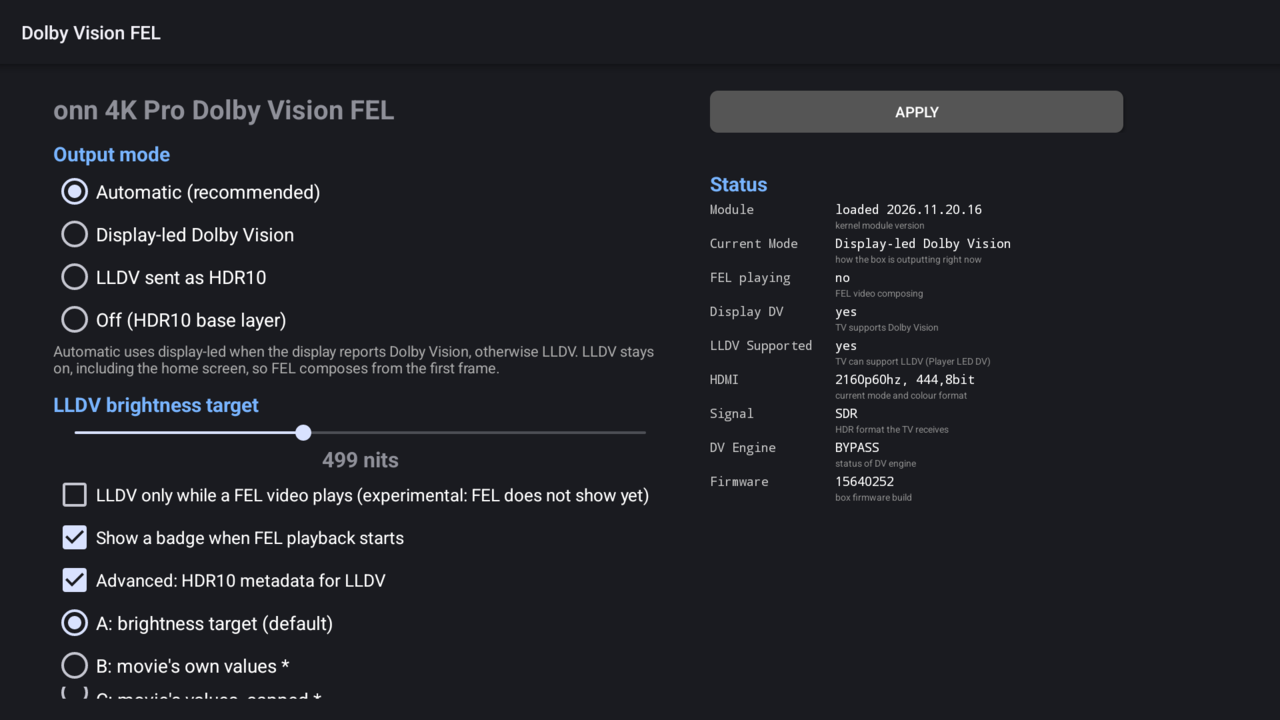
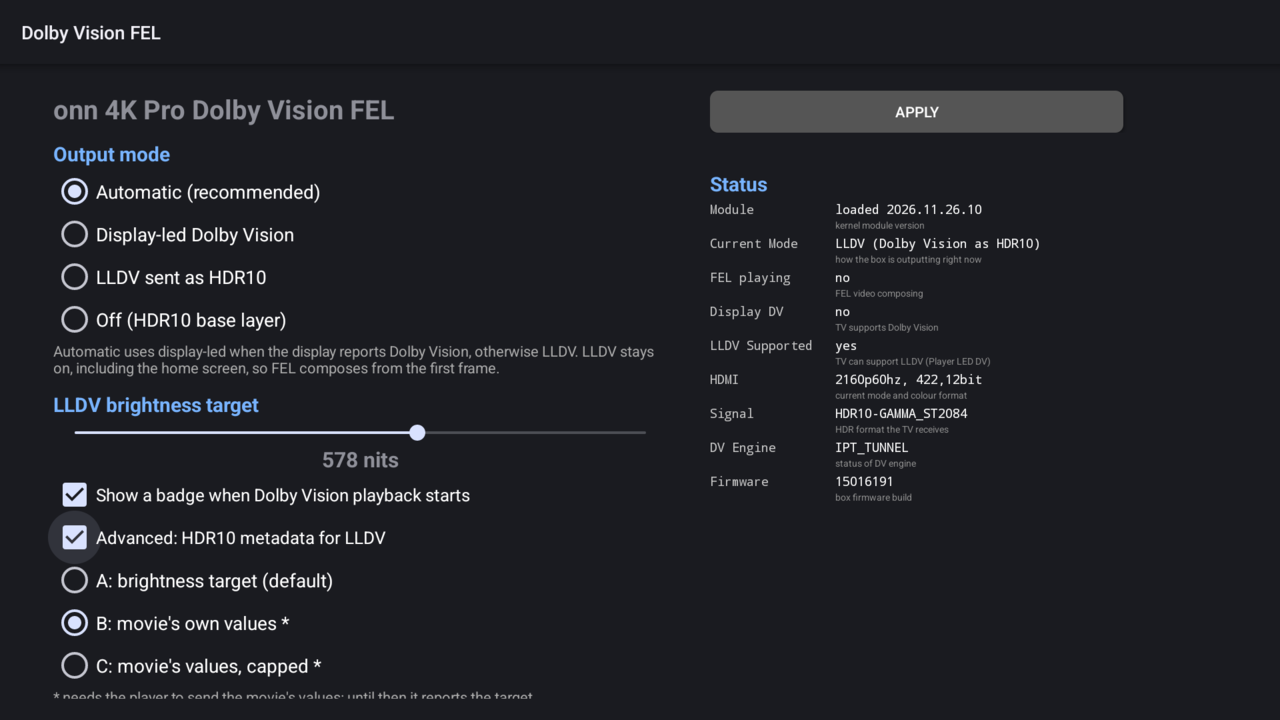
2026.11.26.11: remove the experimental LLDV-per-video option, new app screenshots

diff --git a/player/settings-app/src/org/dvfel/settings/MainActivity.java b/player/settings-app/src/org/dvfel/settings/MainActivity.java
@@ -41,7 +41,7 @@ public class MainActivity extends Activity {
     RadioGroup modeGroup, metaGroup;
     SeekBar nitsBar;
     TextView nitsValue, statusView, messageView;
-    CheckBox badgeBox, advancedBox, alwaysBox;
+    CheckBox badgeBox, advancedBox;
     LinearLayout advanced;
     Button applyButton;
     boolean loaded;
@@ -88,11 +88,6 @@ public class MainActivity extends Activity {
         nitsValue = text("", 16, true);
         nitsValue.setGravity(Gravity.CENTER_HORIZONTAL);
         left.addView(nitsValue);
-
-        alwaysBox = new CheckBox(this);
-        alwaysBox.setText("LLDV only while a FEL video plays (experimental: FEL does not show yet)");
-        alwaysBox.setTextSize(13);
-        left.addView(alwaysBox);
 
         badgeBox = new CheckBox(this);
         badgeBox.setText("Show a badge when Dolby Vision playback starts");
@@ -180,7 +175,7 @@ public class MainActivity extends Activity {
         pendingReq = System.currentTimeMillis();
         String req = "MODE=" + MODES[mode] + "\nNITS=" + NITS[nitsBar.getProgress()] + "\nMETA=" + META[meta]
             + "\nBADGE=" + (badgeBox.isChecked() ? 1 : 0)
-            + "\nWHEN=" + (alwaysBox.isChecked() ? "playback" : "always") + "\nREQ=" + pendingReq + "\n";
+ + "\nWHEN=always\nREQ=" + pendingReq + "\n";
         try {
             File tmp = new File(getFilesDir(), "request.tmp");
             try (FileOutputStream out = new FileOutputStream(tmp)) { out.write(req.getBytes(StandardCharsets.UTF_8)); }
@@ -214,7 +209,6 @@ public class MainActivity extends Activity {
             for (int i = 0; i < NITS.length; i++) if (String.valueOf(NITS[i]).equals(s.get("NITS"))) nitsBar.setProgress(i);
             nitsValue.setText(NITS[nitsBar.getProgress()] + " nits");
             badgeBox.setChecked(!"0".equals(s.get("BADGE")));
-            alwaysBox.setChecked("playback".equals(s.get("WHEN")));
             updateEnabled();
             messageView.setText("");
         }
@@ -295,7 +289,6 @@ public class MainActivity extends Activity {
         boolean lldv = mode == 0 || mode == 2;
         nitsBar.setEnabled(lldv);
         nitsValue.setAlpha(lldv ? 1f : 0.4f);
-        alwaysBox.setEnabled(lldv);
     }
 
     static String yes(String v) { return "1".equals(v) ? "yes" : "no"; }

diff --git a/README.md b/README.md
@@ -9,12 +9,12 @@ Dolby Vision tone-mapped picture too.
 Everything runs in memory. Nothing on the box's partitions is changed: uninstall the module and
 reboot, and the box is stock again.
 
-**Latest release: 2026.11.26.10** (smooth 24 Hz FEL on Dolby Vision TVs and LLDV, badge for every Dolby Vision video):
-[download `onn-dvfel-magisk-2026.11.26.10.zip`](https://github.com/kushmint/ONN4k-Dolby-Vision-FEL/releases/download/v2026.11.26.10/onn-dvfel-magisk-2026.11.26.10.zip)
+**Latest release: 2026.11.26.11** (smooth 24 Hz FEL on Dolby Vision TVs and LLDV, badge for every Dolby Vision video):
+[download `onn-dvfel-magisk-2026.11.26.11.zip`](https://github.com/kushmint/ONN4k-Dolby-Vision-FEL/releases/download/v2026.11.26.11/onn-dvfel-magisk-2026.11.26.11.zip)
 · [all releases](https://github.com/kushmint/ONN4k-Dolby-Vision-FEL/releases) · [install guide](#install)
 · [changelog](#changelog)
 · FEL players: [ONN4k-FEL-Players v2026.11.26](https://github.com/kushmint/ONN4k-FEL-Players/releases/tag/v2026.11.26)
-(use these together: smooth 24 Hz needs module 2026.11.26.10 **and** players v2026.11.26 or later)
+(use these together: smooth 24 Hz needs module 2026.11.26.10 or later **and** players v2026.11.26 or later)
 
 > **Smooth FEL playback.** FEL movies now play at 24 Hz with every frame shown once, with its
 > enhancement layer: no repeated frames, no dropped frames and no green flashes, on Dolby Vision TVs
@@ -64,7 +64,7 @@ Check your firmware build: **Settings → System → About → Android TV OS bui
 
 ### 1. Download the zip
 
-**[onn-dvfel-magisk-2026.11.26.10.zip](https://github.com/kushmint/ONN4k-Dolby-Vision-FEL/releases/download/v2026.11.26.10/onn-dvfel-magisk-2026.11.26.10.zip)**
+**[onn-dvfel-magisk-2026.11.26.11.zip](https://github.com/kushmint/ONN4k-Dolby-Vision-FEL/releases/download/v2026.11.26.11/onn-dvfel-magisk-2026.11.26.11.zip)**
 (newer versions: [Releases](https://github.com/kushmint/ONN4k-Dolby-Vision-FEL/releases)).
 
 It's a standard Magisk module zip (about 85 KB). Don't unzip it; Magisk installs it as is. Inside:
@@ -103,17 +103,17 @@ On the computer ([platform-tools](https://developer.android.com/tools/releases/p
 
 ```sh
 # download the zip (or use the link above in a browser)
-curl -LO https://github.com/kushmint/ONN4k-Dolby-Vision-FEL/releases/download/v2026.11.26.10/onn-dvfel-magisk-2026.11.26.10.zip
+curl -LO https://github.com/kushmint/ONN4k-Dolby-Vision-FEL/releases/download/v2026.11.26.11/onn-dvfel-magisk-2026.11.26.11.zip
 
 adb connect <box-ip>:5555        # on the TV: tick "Always allow from this computer", then Allow
-adb push onn-dvfel-magisk-2026.11.26.10.zip /sdcard/Download/
+adb push onn-dvfel-magisk-2026.11.26.11.zip /sdcard/Download/
 ```
 
 Then either install it from the **Magisk** app (**Modules → Install from storage → Downloads**), or
 straight from the command line:
 
 ```sh
-adb shell "su -c 'magisk --install-module /sdcard/Download/onn-dvfel-magisk-2026.11.26.10.zip'"
+adb shell "su -c 'magisk --install-module /sdcard/Download/onn-dvfel-magisk-2026.11.26.11.zip'"
 adb reboot
 ```
 
@@ -142,7 +142,7 @@ right for almost everyone. Press **Apply** if you change anything; the status pa
 
 ## Tested
 
-**2026.11.26.10** with the players' v2026.11.26 builds, on both boxes. "Lost" is frames the video path never
+**2026.11.26.10** (the same kernel module as 2026.11.26.11) with the players' v2026.11.26 builds, on both boxes. "Lost" is frames the video path never
 showed; "held" is frames that had to wait for their enhancement layer (each one is a frame shown
 twice); "green" is frames shown without their enhancement layer.
 
@@ -217,9 +217,9 @@ and applies it within a second or two. Open it from the apps row: **Dolby Vision
 
 ![Settings app on a Dolby Vision TV: Automatic selected, status shows Display DV yes, HDMI 2160p60hz 444 8bit, DV Engine BYPASS](docs/app-displayled-idle.png)
 
-**On an HDR10 TV without Dolby Vision** (LLDV at 578 nits: the whole box runs as HDR10 4:2:2 12-bit):
+**On an HDR10 TV without Dolby Vision** (Automatic → LLDV at 578 nits: the whole box runs as HDR10 4:2:2 12-bit):
 
-![Settings app on an HDR10 TV: LLDV selected at 578 nits, status shows Current Mode LLDV, HDMI 2160p60hz 422 12bit, Signal HDR10, DV Engine IPT_TUNNEL](docs/app-lldv.png)
+![Settings app on an HDR10 TV: Automatic selected, LLDV at 578 nits, status shows Current Mode LLDV, HDMI 2160p60hz 422 12bit, Signal HDR10, DV Engine IPT_TUNNEL](docs/app-lldv.png)
 
 **Advanced: HDR10 metadata for LLDV** opened (choices A, B and C below the checkbox):
 
@@ -229,7 +229,7 @@ and applies it within a second or two. Open it from the apps row: **Dolby Vision
 for a few seconds when any Dolby Vision video starts, naming its profile (for example
 *Dolby Vision Profile 7 FEL · LLDV 578 nits · sent as HDR10*, *Dolby Vision Profile 8*, or
 *Profile 7 MEL*). A FEL video in a player that can't do FEL says *base layer only*. The screenshot
-below is from an older version (screenshots can't capture the video plane, so the movie shows as black here):
+below is from an older version and shows the old wording (screenshots can't capture the video plane, so the movie shows as black here):
 
 ![FEL badge at the bottom of the screen reading "Dolby Vision FEL · display-led"](docs/badge-display-led.png)
 
@@ -239,7 +239,6 @@ below is from an older version (screenshots can't capture the video plane, so th
 |---|---|
 | **Output mode** | See [Output modes](#output-modes-which-one-is-for-you). |
 | **LLDV brightness target** | Peak brightness the box tone-maps to in LLDV (320–1037 nits). Only used by Automatic (when it picks LLDV) and LLDV. |
-| **LLDV only while a FEL video plays** | *Experimental, leave it off.* Switches LLDV on per video instead of always. FEL does not compose in this mode yet. |
 | **Show a badge when Dolby Vision playback starts** | A short on-screen message when a Dolby Vision video starts: its profile (FEL / MEL for profile 7) and the output in use. |
 | **Advanced: HDR10 metadata for LLDV** | What the HDR10 signal tells the TV in LLDV. **A** (default): your brightness target. **B**: the movie's own mastering values. **C**: the movie's values, capped at your target. B and C need a player that passes the movie's values; until then they report the target. |
 | **Apply** | Saves and applies. It turns dark yellow when selected; "Applied." appears when the module confirms. |
@@ -293,7 +292,7 @@ su -c sh /data/adb/modules/onn_dvfel/dvfelctl apply
 ```
 
 Settings (`/data/adb/onn_dvfel/settings.conf`): `MODE=auto|displayled|lldv|off`,
-`NITS=320|372|499|578|775|1037`, `META=A|B|C`, `BADGE=0|1`, `WHEN=always|playback`.
+`NITS=320|372|499|578|775|1037`, `META=A|B|C`, `BADGE=0|1`.
 Log: `/data/adb/onn_dvfel/log.txt`. Driver counters: `/sys/kernel/debug/dvfel/stats`
 (`composer 0` = FEL composing, `bl paired` = frames with their enhancement layer).
 
@@ -342,11 +341,16 @@ doesn't match, the module refuses to load instead of guessing.
   dying app rather than this module. Stopping a video normally is not affected.
 - **AVRs and HDMI handshakes:** an LLDV switch changes the HDMI format twice. One AVR once kept
   renegotiating HDCP afterwards (no picture). Changing the resolution or refresh rate once fixes it.
-- **"LLDV only while a FEL video plays"** doesn't compose FEL yet; leave it off.
 - **The first seconds of a video streamed over the network** can drop a few frames while the player
   buffers. A seek costs about 3–4 frames.
 
 ## Changelog
+
+### 2026.11.26.11
+- Settings app: removed the experimental *LLDV only while a FEL video plays* option (FEL never
+  composed with it). Anyone who had it on is moved to the normal behaviour (LLDV stays on). New app
+  screenshots. The kernel module is unchanged from 2026.11.26.10 (the app's status still shows
+  `2026.11.26.10`).
 
 ### 2026.11.26.10
 - **Smooth 24 Hz FEL on Dolby Vision TVs and LLDV.** Video decoder buffer margin 20 (was the stock 6),
